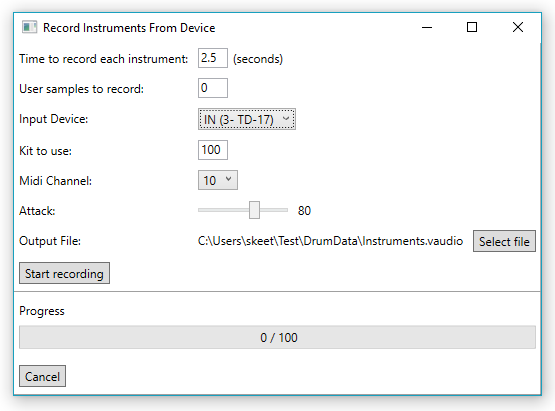
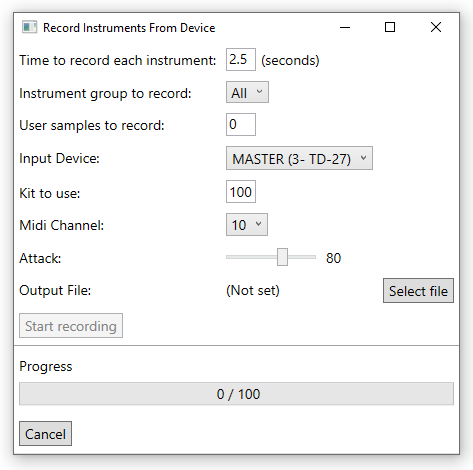
Update documentation for 1.0.0-alpha03

Changed region(s): [[0.0, 0.0292, 0.9767, 0.9927], [0.7992, 0.0292, 0.8584, 0.0876], [0.7104, 0.0292, 0.74, 0.0584]]

diff --git a/Drums/index.md b/Drums/index.md
@@ -18,7 +18,7 @@ how you get on with this.
 
 - Windows 8.1 or Windows 10
 - .NET 4.7.2 or later
-- To be genuinely useful, a Roland TD-17 or TD-50 V-Drums drum kit, turned on and connected via USB (see later for details)
+- To be genuinely useful, a Roland TD-17, TD-27 or TD-50 V-Drums drum kit, turned on and connected via USB (see later for details)
 
 # Installation
 
@@ -100,7 +100,7 @@ supported, this range may vary.)
 
 Loading a single kit is reasonably quick - a few seconds - but
 loading the complete module data takes about three minutes for the
-TD-17, and longer for the TD-50. You'll see a progress dialog like
+TD-17, and longer for the TD-27 or TD-50. You'll see a progress dialog like
 this:
 
 ![Module loading dialog](loading-dialog.png)
@@ -259,12 +259,25 @@ Before recording, there are some things to check:
   setting on the TD-17 is very quiet, for example. In the TD-17, on
   the module, press the Setup button, select the USB option, and set
   the "USB Output Gain" option. I had success with a setting of +20dB.
+- Optionally select an instrument group to record, or leave it at the
+  default "All" to record all instruments. If you only want to record
+  user samples, select the "Off" instrument group. (That contains a
+  single instrument called "Off", but at that point you're not wasting
+  much time recording silence.)
+  - Currently there's no way of recording "just some" instrument
+    groups; it's either all or a single group. Please give me feedback
+    if this limitation causes you any practical difficulties.
 - Select how many user samples you wish to record. There's no point in
   recording more samples than are populated on your module, but the
   explorer can't determine how many there are. Also, you may not wish
   to record the samples anyway.
-- Select the relevant audio device in the dialog. (In the above
-  example, my audio device is "IN (3- TD-17)".)
+- Select the relevant audio device in the dialog, if a suitable one
+  isn't picked by default.
+  - For the TD-17, the audio device is likely to be of the form "IN (3- TD-17)".
+  - For the TD-27 (and I suspect the TD-50), each trigger can be recorded separately.
+    Either record the KICK input, or MASTER. Note that the pad to record
+    is KICK regardless of which instrument group is being recorded, as
+    all samples are played through the kick trigger.
 - Make sure your module has the same kit selected as is shown in the
   dialog box. You can edit this; I'd recommend using a "user" kit that
   is still untouched, for two reasons:
@@ -276,7 +289,7 @@ Before recording, there are some things to check:
   quite large (e.g. around 75MB for a TD-17 with 7 user samples and
   the default 2.5s recording duration) so make sure there is enough
   disk space wherever you're saving to.
-- Make sure the Midi channel is correct for your kit. (This is the
+- Make sure the MIDI channel is correct for your kit. (This is the
   same channel used to play instruments in the Module Explorer and Kit
   Explorer, so that's an easy way to test it.)
 - Optionally change the recording duration per instrument and the
@@ -289,15 +302,15 @@ the module, or strike the pads, you could end up with undesirable
 results.
 
 **Note:** Recording all the samples takes a long time, particularly
-on the TD-50 with over 400 instruments. As well as the recording
-time itself, there's a little overhead while the instrument is
-changed etc. So on a TD-50, recording 2.5s of audio per instrument
-could take over 20 minutes. Please be patient! (The progress bar
-will show you how it's doing, of course.)
+on the TD-50 with over 400 instruments or the TD-27 with over 750!
+As well as the recording time itself, there's a little overhead
+while the instrument is changed etc. So on a TD-50, recording 2.5s
+of audio per instrument could take over 20 minutes. Please be
+patient! (The progress bar will show you how it's doing, of course.)
 
 The process works as follows:
 
-- Load the data for instrument 1 (typically the kick drum) from the
+- Load the data for instrument 1 (the kick drum) from the
   kit, so it can be restored later.
 - For each available instrument:
   - Silence the module (to stop the previous instrument sound)
@@ -358,7 +371,16 @@ apologies in advance.)
 
 # Version history
 
-## Version 1.0.0-alpha02
+## Version 1.0.0-alpha03 (2020-03-01)
+
+- Initial support for TD-27
+- Change MIDI library choice (hopefully invisible to most users)
+- Fix stack overflow error on some changes
+- Fix tempo sync switch not reflecting in UI
+- Select the first output device as a reasonable default in Instrument Audio Explorer
+- Attempt to find a reasonable default input device in instrument recording dialog
+
+## Version 1.0.0-alpha02 (2019-10-03)
 
 - Ability to record instrument sounds and then open the Instrument Audio Explorer
 - Windows installer
@@ -367,7 +389,7 @@ apologies in advance.)
 - Added "Import kit from file" feature (in context menu)
 - Added "Export kit to file" feature (in context menu)
 
-## Version 1.0.0-alpha01
+## Version 1.0.0-alpha01 (2019-09-27)
 
 - Publish .NET Core 3.0 version
 - Change away from 0.x to be consistent with my general thoughts on versioning
